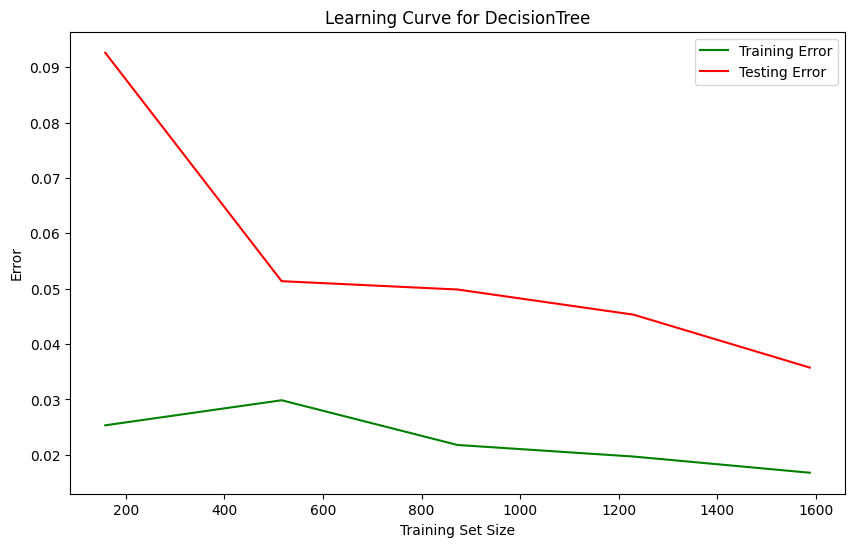
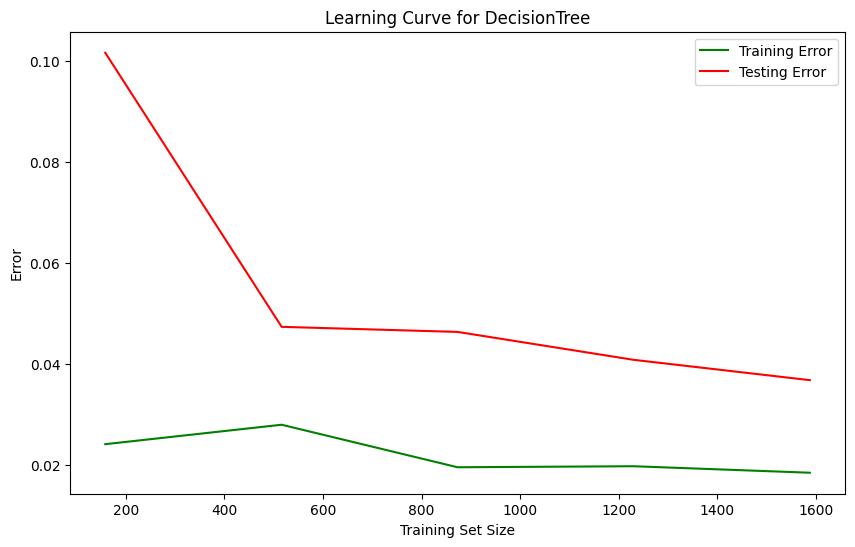
aggiornamento file supervisionato

diff --git a/scripts/supervised.py b/scripts/supervised.py
@@ -2,12 +2,14 @@ import pandas as pd
 import os
 import numpy as np
 import matplotlib.pyplot as plt
-from sklearn.model_selection import train_test_split, learning_curve, RepeatedKFold, cross_val_score, GridSearchCV
+import seaborn as sns
+from sklearn.model_selection import train_test_split, learning_curve, KFold, cross_val_score, cross_val_predict
 from sklearn.ensemble import RandomForestClassifier, AdaBoostClassifier
 from sklearn.tree import DecisionTreeClassifier
 from sklearn.neighbors import KNeighborsClassifier
 from sklearn.naive_bayes import GaussianNB
 from imblearn.over_sampling import SMOTE
+from sklearn.metrics import classification_report, confusion_matrix, roc_auc_score, f1_score
 from collections import Counter
 
 def load_processed_data(filepath):
@@ -21,6 +23,13 @@ def preprocess_data(df):
     
     df['numeric_rating'] = df['rating'].map(rating_mapping)
     df = df.dropna(subset=['numeric_rating'])
+    
+    # Usa .loc per evitare SettingWithCopyWarning
+    df = df.copy()
+    df['title_length'] = df['title'].apply(len)
+    df['release_month'] = pd.to_datetime(df['date_added']).dt.month
+    df['release_season'] = pd.to_datetime(df['date_added']).dt.month % 12 // 3 + 1
+    
     df['most_watched'] = df.groupby('content_category')['numeric_rating'].transform(lambda x: x > x.median())
     
     return df
@@ -55,7 +64,8 @@ def train_model(model, X, y, model_name, model_output_base_dir, plot_output_base
     os.makedirs(model_output_dir, exist_ok=True)
     os.makedirs(plot_output_dir, exist_ok=True)
 
-    cv = RepeatedKFold(n_splits=5, n_repeats=2)
+    # Utilizza KFold invece di RepeatedKFold
+    cv = KFold(n_splits=5)
     scores = cross_val_score(model, X, y, scoring='accuracy', cv=cv)
     print(f'{model_name} Accuracy: {scores.mean():.4f} (+/- {scores.std() * 2:.4f})')
 
@@ -63,9 +73,28 @@ def train_model(model, X, y, model_name, model_output_base_dir, plot_output_base
     plot_learning_curves(model, X, y, model_name, plot_output_dir)
     
     # Salva il report di classificazione
-    report_df = pd.DataFrame({'Model': [model_name], 'Accuracy': [scores.mean()], 'Std Dev': [scores.std()]})
+    y_pred = cross_val_predict(model, X, y, cv=cv)
+    report = classification_report(y, y_pred, output_dict=True)
+    report_df = pd.DataFrame(report).transpose()
     report_path = os.path.join(model_output_dir, f'{model_name}_classification_report.csv')
-    report_df.to_csv(report_path, index=False)
+    report_df.to_csv(report_path, index=True)
+
+    # Genera e salva la matrice di confusione
+    cm = confusion_matrix(y, y_pred)
+    cm_path = os.path.join(plot_output_dir, f'{model_name}_confusion_matrix.png')
+    plt.figure(figsize=(8, 6))
+    sns.heatmap(cm, annot=True, fmt='d', cmap='Blues', cbar=False)
+    plt.title(f'Confusion Matrix for {model_name}')
+    plt.ylabel('True Label')
+    plt.xlabel('Predicted Label')
+    plt.savefig(cm_path)
+    plt.close()
+
+    # Aggiunge altre metriche (es. ROC-AUC, F1-Score)
+    roc_auc = roc_auc_score(y, y_pred)
+    f1 = f1_score(y, y_pred)
+    print(f'{model_name} ROC-AUC: {roc_auc:.4f}')
+    print(f'{model_name} F1-Score: {f1:.4f}')
 
 if __name__ == "__main__":
     baseDir = os.path.dirname(os.path.abspath(__file__))
@@ -85,7 +114,7 @@ if __name__ == "__main__":
     embeddings = np.load(embeddings_path)
     embeddings = filter_embeddings(df, embeddings)
     
-    features = np.hstack([embeddings, df[['numeric_rating', 'release_year']].values])
+    features = np.hstack([embeddings, df[['numeric_rating', 'release_year', 'title_length', 'release_month', 'release_season']].values])
     y = df['most_watched']
     
     # Distribuzione delle classi prima di SMOTE
